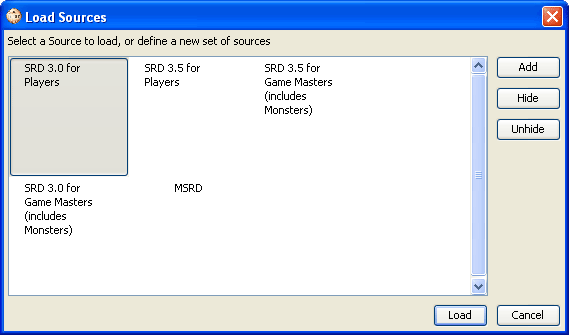
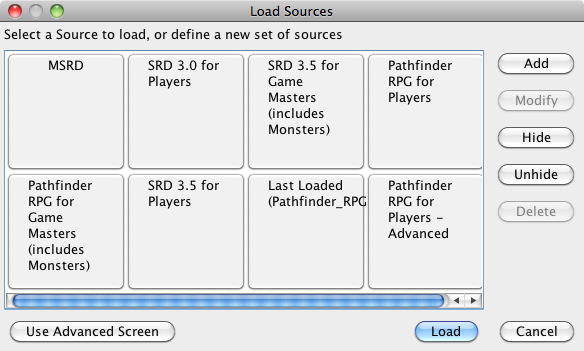
Update the Basic and Advanced LST File Loading walkthrough in the docs. Issue#: DOCS-12
git-svn-id: svn+ssh://svn.code.sf.net/p/pcgen/code/Trunk/pcgen@15111 ef53c05b-3124-4d59-ae7d-fe3273f42be7

diff --git a/docs/walkthroughpages/walkthroughloadcampaignbasic.html b/docs/walkthroughpages/walkthroughloadcampaignbasic.html
@@ -21,9 +21,94 @@
 	</head>
 	
 	<body>
-		<h1>Loading Campaign Materials, Basic</h1>
+		<h1>Loading Campaign Materials: Basic Mode</h1>
+	
+		<p class="sidebar1">For the advanced method for loading sources check out the <a href="walkthroughloadcampaignadvanced.html">Loading Campaign Materials: Advanced Mode</a> page.</p>
+
+<hr>
+
+		<h3>Basic Source Loading</h3>
 		
-		<p><strong>This page is under construction.</strong></p>
+		<ol class="indent2">
+			<li>
+				<p>PCGen is configured to launch the "Load Sources" window when launched for the first time after a clean install.</p>
+				<p class="center"><img src="../images/windows/load_sources.png" alt="Basic Load Sources Window" /></p>
+
+				<p>If the window does not pop-up upon launching of PCGen you can call it up by selecting the "Load Sources" item on the "Settings" menu. 
+					This can be found under the <a href="../menupages/settings/settingssourceloadingoption.html"><strong>Settings-Load Sources</strong></a> 
+					menu.</p>
+				<p class="center"><img src="../images/menus/settings_loadsources.png" alt="Choosing Load Sources" /></p>
+			</li>
+		
+			<li>
+				<p>To load one of the standard configurations, listed below, simply select the set desired and then click the <strong>LOAD</strong> button 
+				near the lower-right of the window. PCGen will then switch to the appropriate GameMode and will load the sets contained in the selected 
+				configuration file.</p>
+				<p>As of PCGen 5.17.x, the Standard Configurations provided as part of the basic mode of source loading include the following sets:</p>
+				<ul class="indent2">
+					<li>MSRD: <a href="http://www.wizards.com/D20/article.asp?x=msrd">d20 Modern System Reference Document</a></li>
+					<li>SRD 3.0 for Players: <a href="http://groups.yahoo.com/group/pcgen/files/3.0%20SRD/">System Reference Document</a></li>
+					<li>SRD 3.5 for Players: <a href="http://www.wizards.com/D20/article.asp?x=srd35">Revised (v.3.5) System Reference Document</a></li>
+					<li>SRD 3.5 for Game Masters (Includes Monsters): <a href="http://www.wizards.com/D20/article.asp?x=srd35">Revised (v.3.5) System Reference Document</a></li>
+					<li>Pathfinder RPG for Players: <a href="http://paizo.com/pathfinderRPG/prd/">Pathfinder Roleplaying Game Reference Document</a></li>
+					<li>Pathfinder RPG for Players - Advanced: <a href="http://paizo.com/pathfinderRPG/prd/">Pathfinder Roleplaying Game Reference Document</a></li>
+					<li>Pathfinder RPG for Game Masters (Includes Monsters): <a href="http://paizo.com/pathfinderRPG/prd/">Pathfinder Roleplaying Game Reference Document</a></li>
+				</ul>
+			</li>
+			<li>
+				<p>You may now create your new haracter.</p>
+			</li>
+		</ol>
+		<p></p>
+		<p class="sidebar1"><strong>Optional:</strong> Before creating a character, you may wish to examine and/or modify the settings PCGen uses for all 
+			characters. This allows certaincommon &quot;house rules&quot; to override official rules for a system. This can be found under the 
+			<a href="../menupages/settings/settingspreferencesoption.html"><strong>Settings-Preferences</strong></a> menu.</p>
+		<p></p>
+
+<hr>
+
+		<h3>Loading Additional Sources After a Loading a Standard Source Collection</h3>
+		
+		<p>Once a standard configuration has been loaded you can add other source files from the same <strong>GameMode</strong>. The following are 
+			the steps to followed:</p>
+		<ol class="indent2">
+			<li>
+				<p>Follow the instructions contained in <strong>Step 4</strong> on the <a href="walkthroughloadcampaignadvanced.html">Loading 
+					Campaign Materials: Advanced Mode</a> page to find and add additional sources to be loaded.</p>
+			</li>
+			<li>
+				<p>Once all desired additional sources have been added, ckick on the "Unload All" button.</p>
+				<p class="center"><img src="../images/tabs/sourcematerial.png" alt="Loading Campaing Materials"></p>
+			</li>
+			<li>
+				<p>Click on the "Load" button.</p>
+			</li>
+			<li>
+				<p>You may now create your new character.</p>
+			</li>
+		</ol>
+		<p></p>
+		<p class="sidebar1"><strong>Optional:</strong> Before creating a character, you may wish to examine and/or modify the settings PCGen uses for all 
+			characters. This allows certaincommon &quot;house rules&quot; to override official rules for a system. This can be found under the 
+			<a href="../menupages/settings/settingspreferencesoption.html"><strong>Settings-Preferences</strong></a> menu.</p>
+		<p></p>
+		
+<hr>
+
+		<h3>Creating New Source Collections</h3>
+		
+		<p></p>
+		
+		<p>These are the steps followed to create your own "Source Collection".</p>
+		<ol class="indent2">
+			<li>
+				<p>Click on the "Add" button on the "Load Sources" window.</p>
+				<p class="center"><img src="../images/windows/load_sources.png" alt="Basic Load Sources Window" /></p>
+				<p></p>
+				<p class="center"><img src="../images/windows/createnewsourcecollection1.png" alt="Create New Source Collection Window" /></p>
+				<p class="center"><img src="../images/windows/createnewsourcecollection2.png" alt="Create New Source Collection Window" /></p>
+			</li>
+		</ol>
 		<p></p>
 
 <hr>

diff --git a/docs/walkthroughpages/walkthroughloadcampaignadvanced.html b/docs/walkthroughpages/walkthroughloadcampaignadvanced.html
@@ -21,16 +21,23 @@
 	</head>
 	
 	<body>
-		<h1>Loading Campaign Materials, Advanced</h1>
-		
-		<ol>
-			<li><p>When PCGen starts up it displays the PCGen splash screen.</p>
+		<h1>Loading Campaign Materials: Advanced Mode</h1>
+
+		<p class="sidebar1">For a simpler method for loading sourcescheck out the <a href="walkthroughloadcampaignbasic.html">Loading Campaign Materials: Basic Mode</a> page.</p>
+
+<hr>
+
+		<ol class="indent2">
+			<li>
+				<p>When PCGen starts up it displays the PCGen splash screen.</p>
 			
 				<p>After it automatically disappears, you will see the PCGen program window and will be on the 
 				<strong>Source Materials</strong> tab. [Tabs for the Source Material and Loaded Characters 
-				default to the bottom of the screen.]</p></li>
+				default to the bottom of the screen.]</p>
+			</li>
 
-			<li><p>First you should choose your desired Game Mode.</p>
+			<li>
+				<p>First you should choose your desired Game Mode.</p>
 				<p>As of now PCGen supports the following Game Modes:</p>
 				<ul>
 					<li>3.5e - <a href="http://www.wizards.com/D20/article.asp?x=srd35">Revised (v.3.5) System Reference Document</a> (default selection).</li>
@@ -43,11 +50,13 @@
 					<li>Sidewinder - <a href="http://www.doghouserules.net/">by Dog House Rules</a></li>
 				</ul>
 				
-			<p class="center"><img src="../images/menus/settings_gamemode.png" alt="Choosing Gamemode" /></p>
+				<p class="center"><img src="../images/menus/settings_gamemode.png" alt="Choosing Gamemode" /></p>
+			</li>
 				
-			<li><p>Now you can load sources appropriate to your chosen Game Mode/Campaign.</p>
+			<li>
+				<p>Now you can load sources appropriate to your chosen Game Mode/Campaign.</p>
 			
-			<p>The Window is broken into 4 panes. The sources <strong>Available</strong> to be used with PCGen, the
+				<p>The Window is broken into 4 panes. The sources <strong>Available</strong> to be used with PCGen, the
 				sources you have <strong>Selected</strong> for use in Character Generation, the <strong>Source
 				Info</strong> pane and the button pane.</p>
 				
@@ -61,7 +70,8 @@
 				subgroups for that publisher.</p>
 			</li>
 			
-			<li><p>When you select a source of interest, the information about the source appears in the lower left 
+			<li>
+				<p>When you select a source of interest, the information about the source appears in the lower left 
 				<strong>Source Info</strong> frame. </p>
 				
 				<p>Click the <strong>Add</strong> (&quot;&gt;&quot;) button at the top of the
@@ -81,7 +91,8 @@
 				magazine article) you will need to load the source which has this information.</p>
 			</li>
 			
-			<li><p>Once all the sources you need are in the upper right <strong>Selected
+			<li>
+				<p>Once all the sources you need are in the upper right <strong>Selected
 				</strong>pane, click the <strong>Load</strong> button in the lower right frame. This will load
 				all sources in the upper right <strong>Selected</strong> pane.</p>
 				
@@ -95,10 +106,12 @@
 			</li>
 		</ol>
 		
-		<p><strong>Optional:</strong> Before creating a character, you may wish to examine
-		and/or modify the settings PCGen uses for all characters. This allows certain
-		common &quot;house rules&quot; to override official rules for a system. This is 
-		under the <strong>Settings-Preferences</strong> menu described <a href="../menupages/settings/settingspreferencesoption.html">here.</a></p>
+		<p class="sidebar1"><strong>Optional:</strong> Before creating a character, you may wish to examine and/or modify the settings PCGen uses for all 
+			characters. This allows certaincommon &quot;house rules&quot; to override official rules for a system. This can be found under the 
+			<a href="../menupages/settings/settingspreferencesoption.html"><strong>Settings-Preferences</strong></a> menu.</p>
+		<p></p>
+
+<hr>
 		
 	<p>
 	<a href="http://validator.w3.org/check?uri=referer"><img

diff --git a/docs/walkthroughpages/walkthroughloadcampaign.html b/docs/walkthroughpages/walkthroughloadcampaign.html
@@ -27,7 +27,8 @@
 			data sets. PCGen provides an extensive library of data sets from a broad range of RPG publishers. Loading 
 			these sets can be accoplished in one of two methods:</p>
 		<p class="indent1"><a href="walkthroughloadcampaignbasic.html">Basic Mode</a> provides a selection of the more commonly used data sets as 
-			preconfigured loads. This mode also allows the user to add their own preconfigured set through the creation of a custom PCC file.</p>
+			preconfigured collections ready for loading. This mode also allows the user to add their own preconfigured set through the creation of 
+			a custom PCC file.</p>
 		<p class="indent1"><a href="walkthroughloadcampaignadvanced.html">Advanced Mode</a> allows the experienced user access to the complete 
 			list of available data sets and provides complete control over which sets are loaded.</p>
 		</ol>
